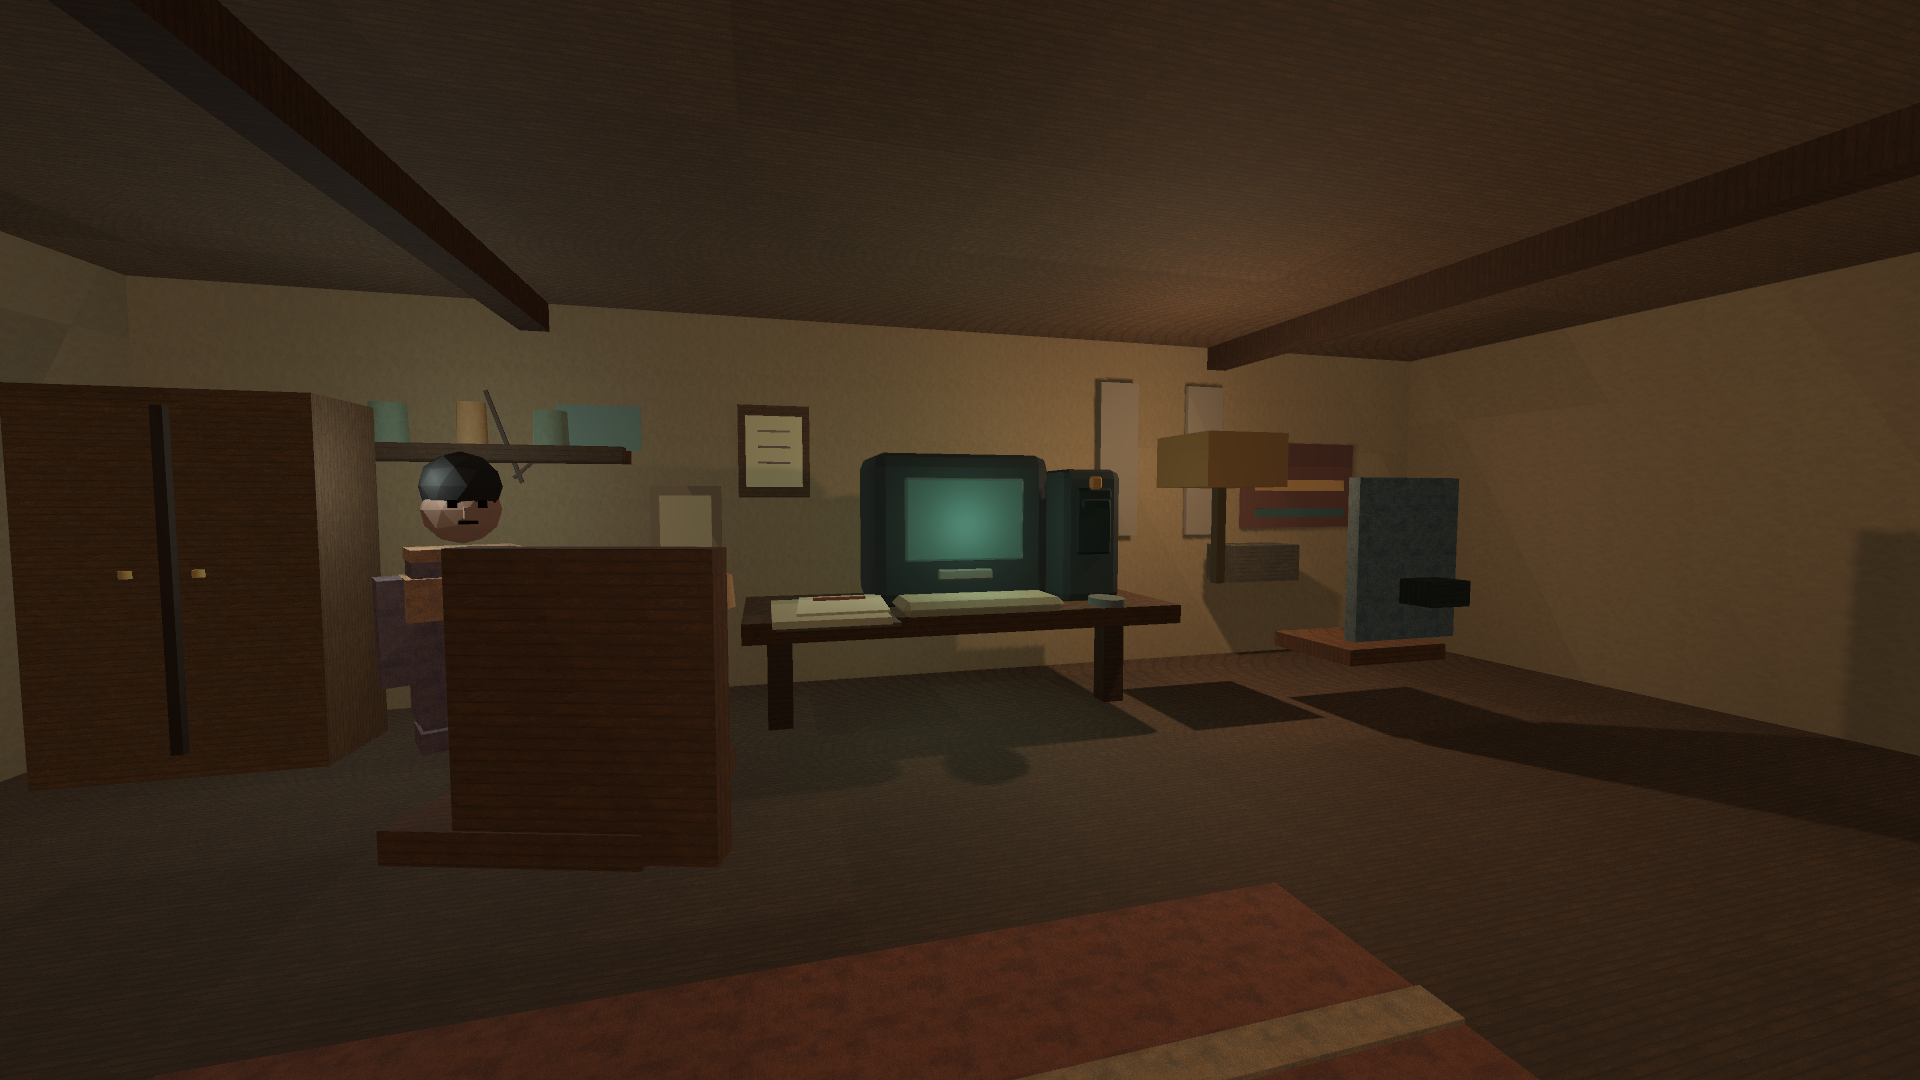
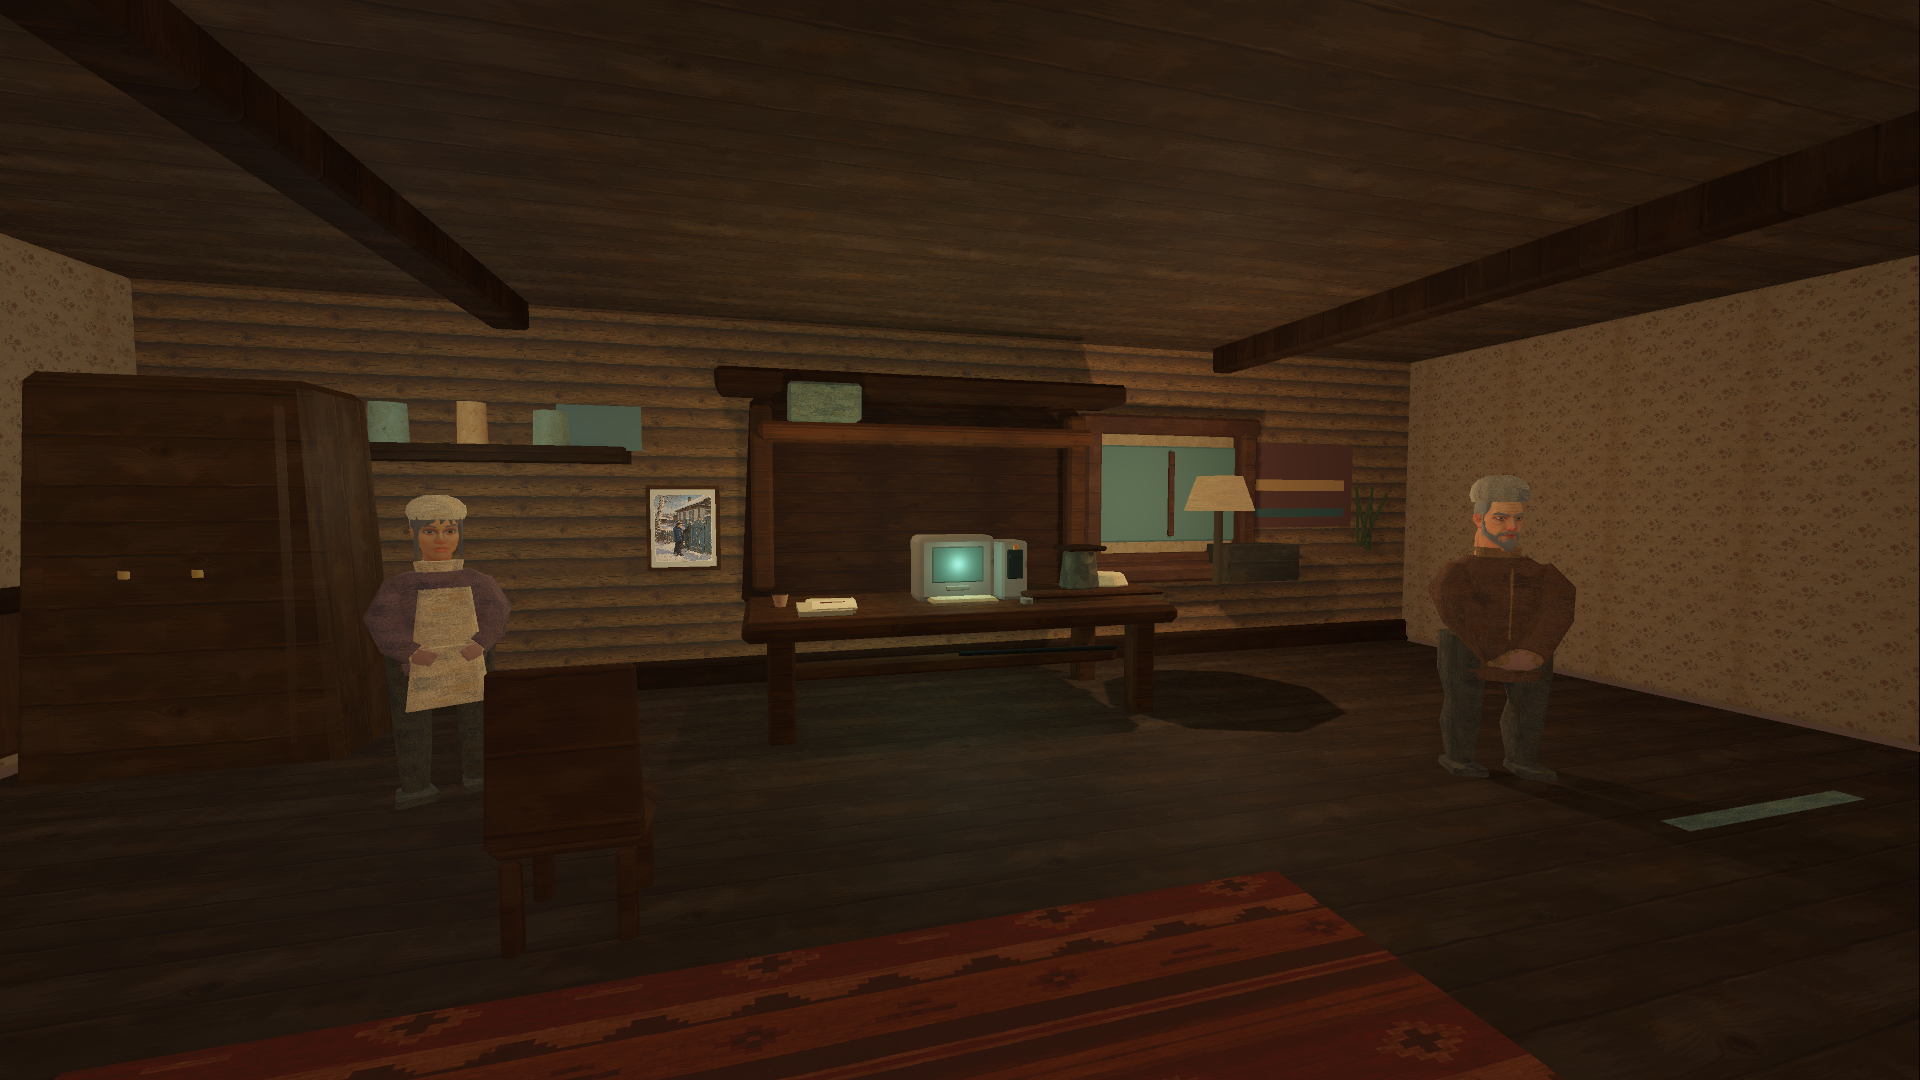
fix(act1): render the three hero style frames from the assembled world
StyleFrameCapture instantiated only the style_benchmark_* zone scene, so the
three 1920x1080 hero frames showed the benchmark ground/road slabs, stand-in
pines and the hidden boundary props instead of the shipped winter village.

The harness now assembles the same world the game assembles - one
Act1ConnectedWorld per frame, SetActiveLogicalZone(zone_id), camera at
zone origin + the same authored offset - and every assertion survived the move,
re-rooted to the zone instance inside that world: HouseA/OldPc/PineA
imported-module identity, WellA_/WoodpileA_/OldPc_ presentation-only status with
zero physics descendants, and the OldPc layer-1 interaction target with its
proxy collider. The diegetic FAP landmark check now reads FapWayfindingLabel on
the authored wayfinding board (same text, same wayfindingLandmark meta) because
the connected owner hides the zone scene's own VillageSignText; the legacy
BuildVillageFraming path that builds FapSignText is not called in the main
connected path, so asserting it would have checked geometry the player never
sees.

Fresh receipts: day 91c4d004, house 488d650b, kara 6c21dea2. The wetness
candidate and the puddle diagnostic now state their base-scene basis in their
own READMEs.

Test-and-docs only: game/tests/* is excluded from the desktop export, so the
r43 candidate is not staled.

diff --git a/game/tests/StyleFrameCapture.cs b/game/tests/StyleFrameCapture.cs
@@ -1,14 +1,24 @@
+using System.Linq;
 using Godot;
 
 namespace Urman.Godot.Tests;
 
+/// <summary>
+/// Three 1920x1080 hero style frames for the mandatory Act 1 zones.
+///
+/// The frames are rendered from the assembled shipped world, not from the raw
+/// zone scene: <c>Act1ConnectedWorld</c> hides the benchmark ground/road,
+/// stand-in pines and boundary props and mounts the winter heightfield, the
+/// authored parcels and the exterior atmosphere. Photographing only the zone
+/// scene would produce frames of geometry no player can reach.
+/// </summary>
 public partial class StyleFrameCapture : Node
 {
-    private static readonly (string Name, string ScenePath, Vector3 Camera, Vector3 Target)[] Frames =
+    private static readonly (string Name, string ZoneId, string ScenePath, Vector3 Camera, Vector3 Target)[] Frames =
     [
-        ("day_street", "res://scenes/zones/style_benchmark_day_street.tscn", new Vector3(0, 1.7f, 12.5f), new Vector3(0, 1.45f, -7.5f)),
-        ("house_old_pc", "res://scenes/zones/style_benchmark_house_pc.tscn", new Vector3(-1.45f, 1.68f, 1.75f), new Vector3(0, 1.38f, -3.45f)),
-        ("kara_urman_edge", "res://scenes/zones/style_benchmark_kara_urman_night.tscn", new Vector3(0, 1.7f, 12.5f), new Vector3(0.55f, 1.35f, -7.2f))
+        ("day_street", "village_day", "res://scenes/zones/style_benchmark_day_street.tscn", new Vector3(0, 1.7f, 12.5f), new Vector3(0, 1.45f, -7.5f)),
+        ("house_old_pc", "house_old_pc", "res://scenes/zones/style_benchmark_house_pc.tscn", new Vector3(-1.45f, 1.68f, 1.75f), new Vector3(0, 1.38f, -3.45f)),
+        ("kara_urman_edge", "kara_urman_night", "res://scenes/zones/style_benchmark_kara_urman_night.tscn", new Vector3(0, 1.7f, 12.5f), new Vector3(0.55f, 1.35f, -7.2f))
     ];
 
     public override async void _Ready()
@@ -23,27 +33,27 @@ public partial class StyleFrameCapture : Node
 
         foreach (var frame in Frames)
         {
-            if (!await CaptureAsync(frame.Name, frame.ScenePath, frame.Camera, frame.Target, outputDirectory))
+            if (!await CaptureAsync(frame.Name, frame.ZoneId, frame.ScenePath, frame.Camera, frame.Target, outputDirectory))
             {
                 return;
             }
         }
 
-        GD.Print($"style-frame-capture: {Frames.Length} frames at 1920x1080 -> {outputDirectory}");
+        GD.Print($"style-frame-capture: {Frames.Length} assembled-world frames at 1920x1080 -> {outputDirectory}");
         GetTree().Quit(0);
     }
 
     private async Task<bool> CaptureAsync(
         string name,
+        string zoneId,
         string scenePath,
         Vector3 cameraPosition,
         Vector3 cameraTarget,
         string outputDirectory)
     {
-        var packed = ResourceLoader.Load<PackedScene>(scenePath);
-        if (packed is null)
+        if (!Act1WorldLayout.TryGetPlacement(zoneId, out var placement))
         {
-            Fail($"Could not load style benchmark {scenePath}.");
+            Fail($"Style frame capture has no connected Act I placement for '{zoneId}' ({scenePath}).");
             return false;
         }
 
@@ -56,18 +66,30 @@ public partial class StyleFrameCapture : Node
             Msaa3D = Viewport.Msaa.Msaa2X
         };
         AddChild(viewport);
-        var sceneInstance = packed.Instantiate<Node3D>();
-        viewport.AddChild(sceneInstance);
+
+        var world = new Act1ConnectedWorld { Name = $"StyleFrameWorld_{name}" };
+        viewport.AddChild(world);
+        world.SetActiveLogicalZone(zoneId);
+
+        var zone = world.GetChildren().OfType<Node3D>().FirstOrDefault(child =>
+            child.HasMeta("logicalZoneId")
+            && child.GetMeta("logicalZoneId").AsString() == zoneId);
+        if (zone is null)
+        {
+            viewport.Free();
+            Fail($"Style frame capture could not find the {zoneId} zone instance inside the connected world.");
+            return false;
+        }
 
         var camera = new Camera3D
         {
             Name = "CaptureCamera",
-            Position = cameraPosition,
+            Position = placement.Origin + cameraPosition,
             Fov = 75,
             Current = true
         };
         viewport.AddChild(camera);
-        camera.LookAt(cameraTarget, Vector3.Up);
+        camera.LookAt(placement.Origin + cameraTarget, Vector3.Up);
 
         for (var frame = 0; frame < 8; frame++)
         {
@@ -82,16 +104,18 @@ public partial class StyleFrameCapture : Node
             _ => string.Empty
         };
         if (expectedImportedModule.Length > 0
-            && sceneInstance.GetMeta("styleImportedModules").AsString() != expectedImportedModule)
+            && (!zone.HasMeta("styleImportedModules")
+                || zone.GetMeta("styleImportedModules").AsString() != expectedImportedModule))
         {
             viewport.Free();
-            Fail($"Style benchmark {name} did not materialize the expected imported module {expectedImportedModule}.");
+            Fail($"Style frame {name} did not materialize the expected imported module {expectedImportedModule}.");
             return false;
         }
 
         if (name == "day_street")
         {
-            if (sceneInstance.GetMeta("stylePresentationModules").AsString()
+            if (!zone.HasMeta("stylePresentationModules")
+                || zone.GetMeta("stylePresentationModules").AsString()
                 != "WellA_project_original|WoodpileA_project_original")
             {
                 viewport.Free();
@@ -99,7 +123,13 @@ public partial class StyleFrameCapture : Node
                 return false;
             }
 
-            var sign = sceneInstance.GetNodeOrNull<Label3D>("VillageSignText");
+            // The zone scene's own VillageSignText board is hidden by the
+            // connected owner, which mounts its own readable ФАП landmark
+            // (FapWayfindingLabel on the authored wayfinding board). Assert the
+            // landmark the player actually sees.
+            var sign = world.FindChildren("FapWayfindingLabel", nameof(Label3D), recursive: true, owned: false)
+                .OfType<Label3D>()
+                .FirstOrDefault();
             if (sign is null || sign.Text != "ФАП" || sign.GetMeta("wayfindingLandmark").AsString() != "fap")
             {
                 viewport.Free();
@@ -113,7 +143,7 @@ public partial class StyleFrameCapture : Node
                          ("GeneratedWoodpileA", "WoodpileA_project_original")
                      })
             {
-                var module = sceneInstance.GetNodeOrNull<Node3D>(nodeName);
+                var module = zone.GetNodeOrNull<Node3D>(nodeName);
                 var collisionObjects = module?.FindChildren("*", nameof(CollisionObject3D), recursive: true, owned: false).Count ?? -1;
                 var collisionShapes = module?.FindChildren("*", nameof(CollisionShape3D), recursive: true, owned: false).Count ?? -1;
                 if (module is null
@@ -132,10 +162,10 @@ public partial class StyleFrameCapture : Node
 
         if (name == "house_old_pc")
         {
-            var module = sceneInstance.GetNodeOrNull<Node3D>("GeneratedOldPcAct1");
+            var module = zone.GetNodeOrNull<Node3D>("GeneratedOldPcAct1");
             var collisionObjects = module?.FindChildren("*", nameof(CollisionObject3D), recursive: true, owned: false).Count ?? -1;
             var collisionShapes = module?.FindChildren("*", nameof(CollisionShape3D), recursive: true, owned: false).Count ?? -1;
-            var interaction = sceneInstance.GetNodeOrNull<InteractionTarget>("OldPc");
+            var interaction = zone.GetNodeOrNull<InteractionTarget>("OldPc");
             if (module is null
                 || !module.GetMeta("presentationOnlyInstance").AsBool()
                 || module.GetMeta("stylePresentationModule").AsString() != "OldPc_project_original"

diff --git a/docs/urman_knowledge_base/art/style_frames/README.md b/docs/urman_knowledge_base/art/style_frames/README.md
@@ -331,23 +331,45 @@ Technical capture and full Godot smoke pass. Visual verdict remains OPEN:
 the route is more readable, but the forest family/ground density, motion pass,
 cultural review and art-lock acceptance still require human review.
 
-## Scene basis clarification — 2026-09-14
+## Scene basis repair — 2026-09-14
 
-Everything in this file was captured from the `style_benchmark_*` zone scene
-alone, before the Act I connected-world dressing runs. That is why these frames
-were repeatedly described here as a "grey-olive greybox": the zone scene's own
-`Ground`/`Road` slabs, benchmark `Pine`/`Birch` stand-ins, `BoundaryThread` and
-`DistantWindow` are all hidden at runtime by
+Until this pass every frame in this file was captured from the
+`style_benchmark_*` zone scene alone, before the Act I connected-world dressing
+ran. That is why the frames were repeatedly described here as a "grey-olive
+greybox": the zone scene's own `Ground`/`Road` slabs, benchmark `Pine`/`Birch`
+stand-ins, `BoundaryThread` and `DistantWindow` are hidden at runtime by
 `Act1ConnectedWorld.ApplyLogicalZonePresentationSuppressions`, and the shared
-winter heightfield, authored parcels, exterior atmosphere and NPC dressing are
-mounted in their place. These three PNGs remain valid as an isolated
-module/scene receipt — `StyleFrameCapture` still asserts the presence,
-presentation-only status and zero-physics contract of `WellA_`, `WoodpileA_` and
-`OldPc_` — but they are **not** the shipped look and must not be used as the
-visual style evidence for the art gate.
+winter heightfield, authored parcels, exterior atmosphere and cast are mounted
+in their place. The old frames were therefore pictures of geometry that is not
+in the shipped game.
 
-The 27-cell `../style_motion_sweep/` sheets now assemble the same world the game
-assembles and are the current spatial-readability evidence. A future pass should
-re-root `StyleFrameCapture`, `StyleTemporalComfortCapture`, the wetness candidate
-and the puddle diagnostic onto the connected world the same way; until then their
-READMEs state their scene basis.
+`StyleFrameCapture` now assembles the same world the game assembles — one
+`Act1ConnectedWorld` per frame, `SetActiveLogicalZone(zone_id)`, camera at
+`zone origin + the same authored offset` — and keeps every assertion, re-rooted
+to the zone instance inside that world: `HouseA`/`OldPc`/`PineA` imported-module
+identity, `WellA_`/`WoodpileA_`/`OldPc_` presentation-only status with zero
+physics descendants, the `OldPc` layer-1 interaction target and its proxy
+collider. The diegetic ФАП landmark assertion now reads `FapWayfindingLabel` on
+the authored wayfinding board, because the connected owner hides the zone
+scene's own `VillageSignText`; the text and `wayfindingLandmark = fap` contract
+are unchanged.
+
+Current 1 920 × 1 080 receipts:
+
+| Scene | SHA-256 |
+|---|---|
[3 lines of base64/hex data omitted]
+
+The three frames now show the shipped winter village: a snow-packed main street
+with ruts, the ФАП signpost, snow banks, woodpile and bare winter trees; the
+babai/äbi interior with the glowing CRT and both grandparents; and the
+snow-covered Kara-Urman edge without the floating benchmark window. Visual
+verdict stays OPEN — a human still has to accept silhouettes, palette, lighting,
+fog, density and cultural fit. The 27-cell
+[`../style_motion_sweep/`](/Users/unterlantas/Documents/GitHub/URMAN/docs/urman_knowledge_base/art/style_motion_sweep/)
+sheets carry the same assembled world at near/mid/far × FOV 65°/75°/90°.
+
+Still on the base scene, with that basis stated in their own READMEs:
+`StyleTemporalComfortCapture`, the wetness candidate and the puddle diagnostic.

diff --git a/docs/urman_knowledge_base/decision_log.md b/docs/urman_knowledge_base/decision_log.md
@@ -3503,15 +3503,20 @@ Decision: The sweep assembles the same world the game assembles — `new
 Act1ConnectedWorld()` per capture scene, `SetActiveLogicalZone(zone_id)`, camera
 at `zone origin + the authored offset` — and keeps the identical 3x3 grid,
 ownership checks and fail-closed imported-module assertions, now read from the
-zone instance inside the connected world. `StyleFrameCapture`, the temporal
-comfort sweep, the wetness candidate and the puddle diagnostic stay on the base
-scene and now state that basis in their READMEs; re-rooting them is a later task.
+zone instance inside the connected world. `StyleFrameCapture` now renders the
+same assembled world; the temporal comfort sweep, the wetness candidate and the
+puddle diagnostic stay on the base scene and now state that basis in their
+READMEs, so re-rooting those three is the later task.
 The hardcoded manifest dates in `StyleMotionSweepCapture` and
 `StyleTemporalComfortCapture` are replaced by `captured_at_utc` with the real
 capture time, matching the other harnesses.
 
 Consequences: Current receipts are day `3a2a1bf2`, house `687c12d6`, kara
-`5411bde5`; motion manifest `15cec7b3`. The superseded base-scene temporal
+`5411bde5`; motion manifest `15cec7b3`. `StyleFrameCapture` was re-rooted the
+same way and re-captured: day `91c4d004`, house `488d650b`, kara `6c21dea2`, with
+its module and interaction assertions preserved and only the ФАП landmark
+assertion moved from the hidden `VillageSignText` to `FapWayfindingLabel` on the
+authored wayfinding board. The superseded base-scene temporal
[2 lines of base64/hex data omitted]
 after the same base-scene rerun (day `5986c545`, house `66e20eda`, kara

diff --git a/docs/urman_knowledge_base/art/puddle_silhouette_candidate/README.md b/docs/urman_knowledge_base/art/puddle_silhouette_candidate/README.md
@@ -9,6 +9,8 @@ Each 1 920 × 1 080 contact sheet compares the existing flat `CylinderMesh` pudd
 - Source scenes, shader, PainterlyMaterialLibrary, roughness, saves and narrative state: **unchanged**
 - Diagnostic PNGs: **3/3**
 
+Scene basis (2026-09-14): this harness instantiates the raw `style_benchmark_*` zone scenes, so the frames show the benchmark ground/road slabs and stand-in props that `Act1ConnectedWorld` hides at runtime. Since the probe clones one material in memory and compares it against the same scene on the other side of the comparison, the delta stays valid; the frames are just not the shipped look. The assembled-world evidence lives in `../style_frames/` and `../style_motion_sweep/`.
+
 The candidate intentionally has no bottom face or vertical cylindrical side wall. It remains a bounded silhouette experiment: visual assessment must still decide whether it reads as damp, avoids a plate/rim silhouette, survives traversal, and stays compatible with the Painterly Low-Poly 3D style bible.
 
 ## Verification

diff --git a/docs/urman_knowledge_base/art/wetness_candidate/README.md b/docs/urman_knowledge_base/art/wetness_candidate/README.md
@@ -13,6 +13,8 @@ This harness instantiates the three mandatory style benchmarks plus `chapter1_zi
 
 The day-street, Kara-Urman-edge and Zirat-road 1080p images are test-only roughness candidates. They do not activate runtime materials or close the wetness/art-lock gate.
 
+Scene basis (2026-09-14): this harness instantiates the raw `style_benchmark_*` zone scenes, so the frames show the benchmark ground/road slabs and stand-in props that `Act1ConnectedWorld` hides at runtime. Since the probe clones one material in memory and compares it against the same scene on the other side of the comparison, the delta stays valid; the frames are just not the shipped look. The assembled-world evidence lives in `../style_frames/` and `../style_motion_sweep/`.
+
 ## Contact receipt
 
 See `wetness_candidate_manifest.json` for every patch's sampled relief height, puddle bottom, gap and collider check.
